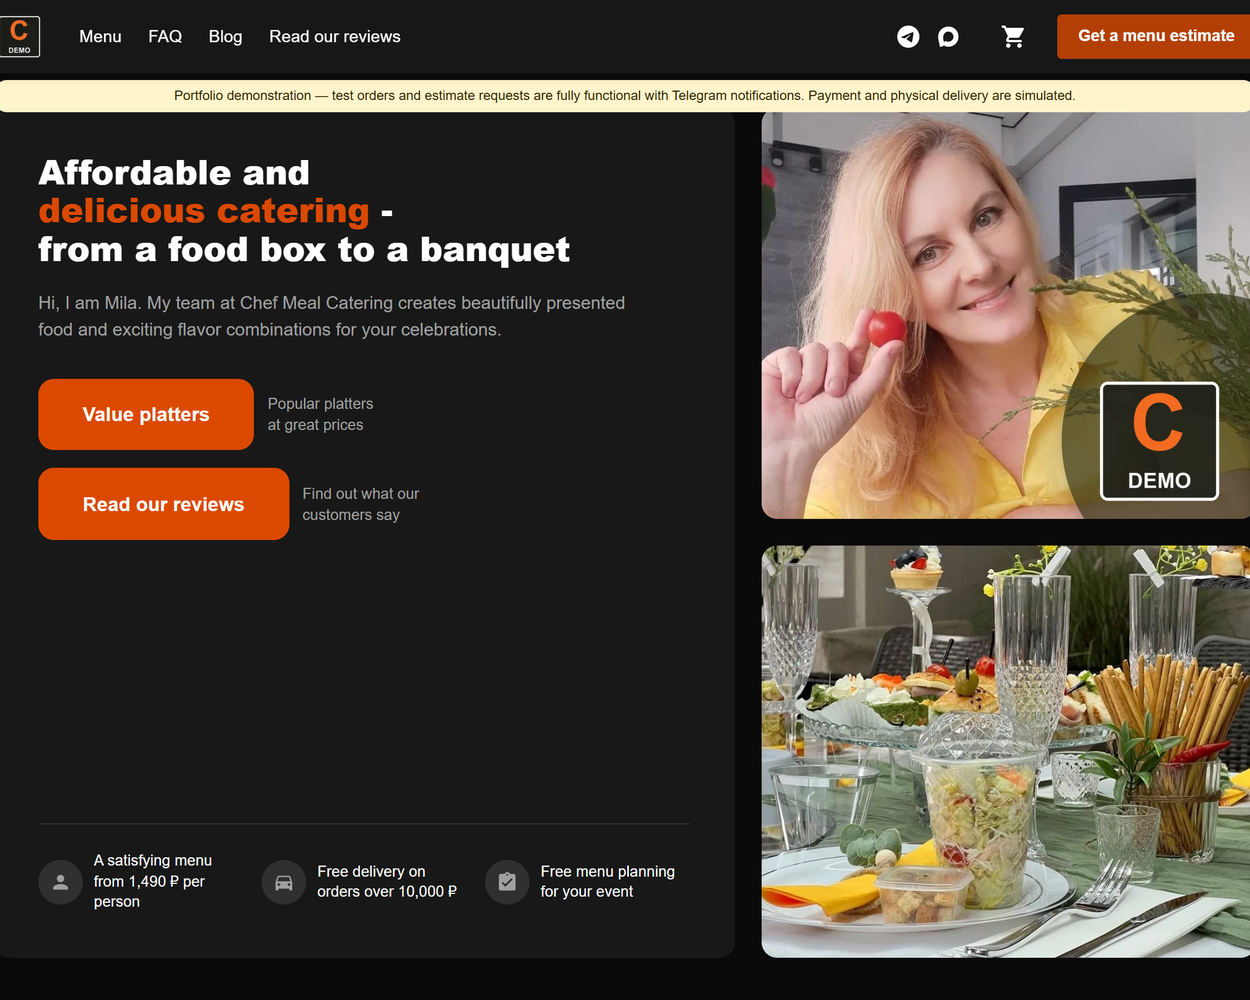
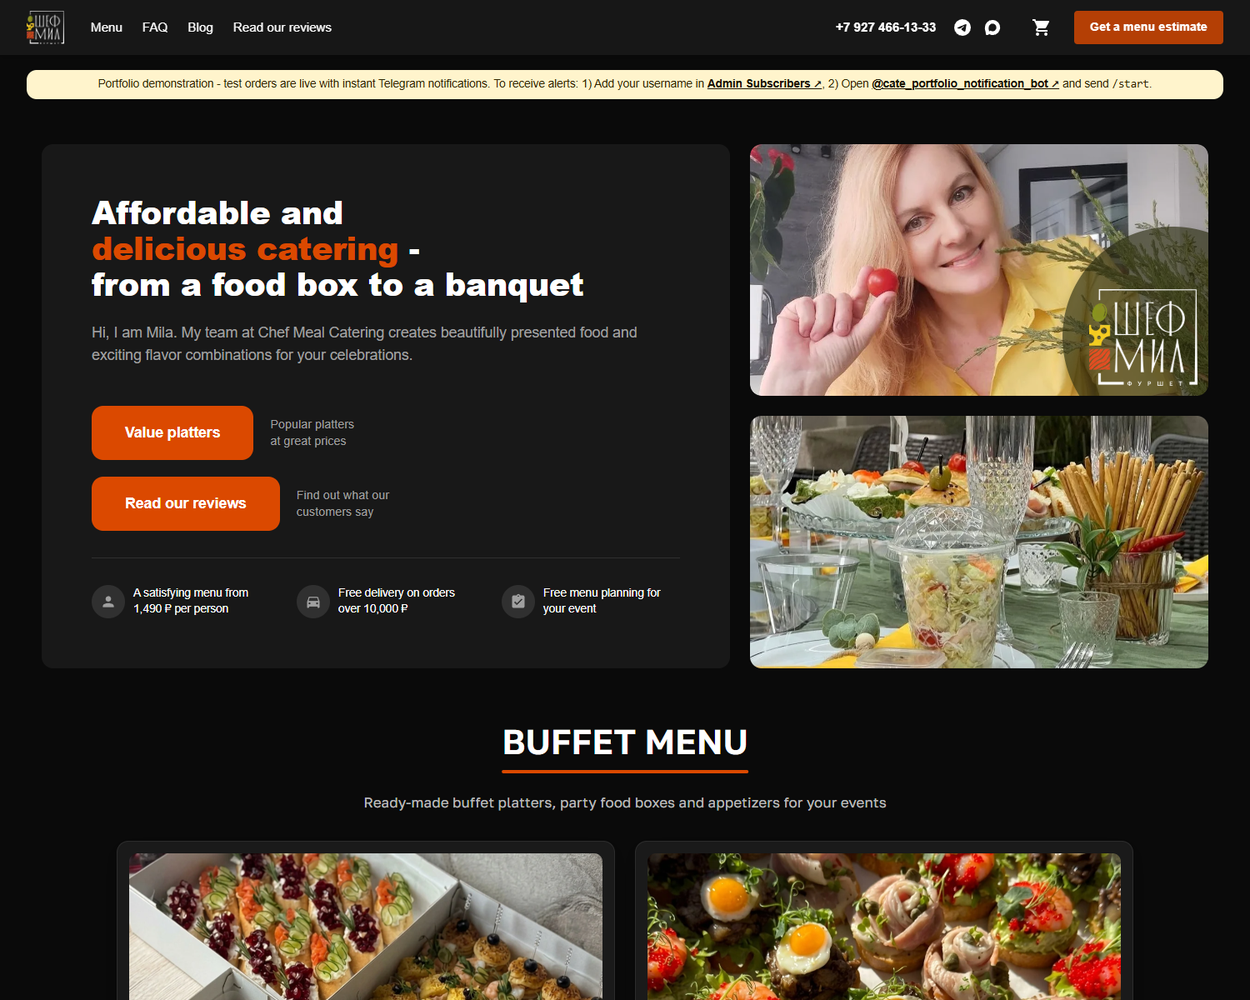
fix(catering): eliminate hero empty space void, use natural height, and update 5x4 portfolio thumbnail with catalog sections

diff --git a/catering/frontend/src/components/common/home-demo-notice.tsx b/catering/frontend/src/components/common/home-demo-notice.tsx
@@ -6,7 +6,7 @@ export function HomeDemoNotice() {
   const pathname = usePathname();
   if (pathname !== "/" || process.env.NEXT_PUBLIC_DEMO_MODE === "false") return null;
   return (
-    <aside role="note" style={{ position: "absolute", left: 0, right: 0, zIndex: 2, padding: "8px 12px", borderRadius: "12px", textAlign: "center", background: "#fff4cc", color: "#312600", lineHeight: 1.4, fontSize: "13.5px" }}>
+    <aside role="note" style={{ position: "relative", margin: "12px 0 8px", zIndex: 2, padding: "8px 12px", borderRadius: "12px", textAlign: "center", background: "#fff4cc", color: "#312600", lineHeight: 1.4, fontSize: "13.5px" }}>
       <span>Portfolio demonstration - test orders are live with instant Telegram notifications. </span>
       <span style={{ display: "inline-block" }}>
         To receive alerts: 1) Add your username in{" "}

diff --git a/catering/frontend/src/components/blocks/hero/desktop/desktop.module.scss b/catering/frontend/src/components/blocks/hero/desktop/desktop.module.scss
@@ -3,8 +3,8 @@
 @use "../../../../styles/variables" as *;
 
 .heroSection {
-  padding-top: 90px;
-  min-height: 100vh;
+  padding-top: 118px;
+  min-height: auto;
   display: flex;
   align-items: center;
   justify-content: center;
@@ -19,7 +19,7 @@
 .container {
   display: grid;
   grid-template-columns: 1.2fr 0.8fr;
-  min-height: 85vh;
+  min-height: auto;
   height: auto;
   gap: 1.5rem;
   max-width: 1400px;
@@ -94,7 +94,7 @@
 
   .actionArea {
     display: flex;
-    margin-bottom: 4rem;
+    margin-bottom: 2rem;
     flex-direction: column;
     gap: 1.25rem;
 

diff --git a/catering/frontend/src/components/blocks/hero/hero.module.scss b/catering/frontend/src/components/blocks/hero/hero.module.scss
@@ -2,7 +2,7 @@
 
 .desktopOnly {
   display: block;
-  min-height: 100vh;
+  min-height: auto;
 
   @include mobile {
     display: none !important;
